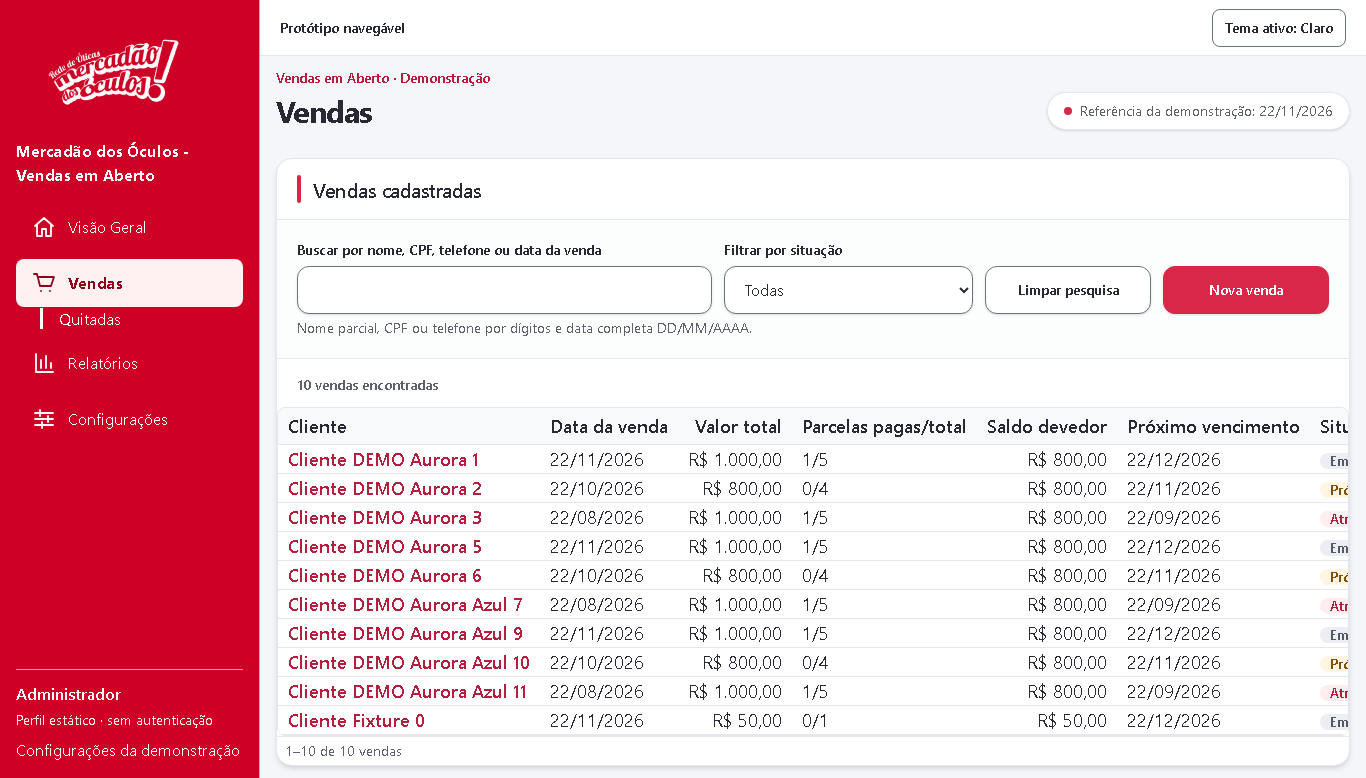
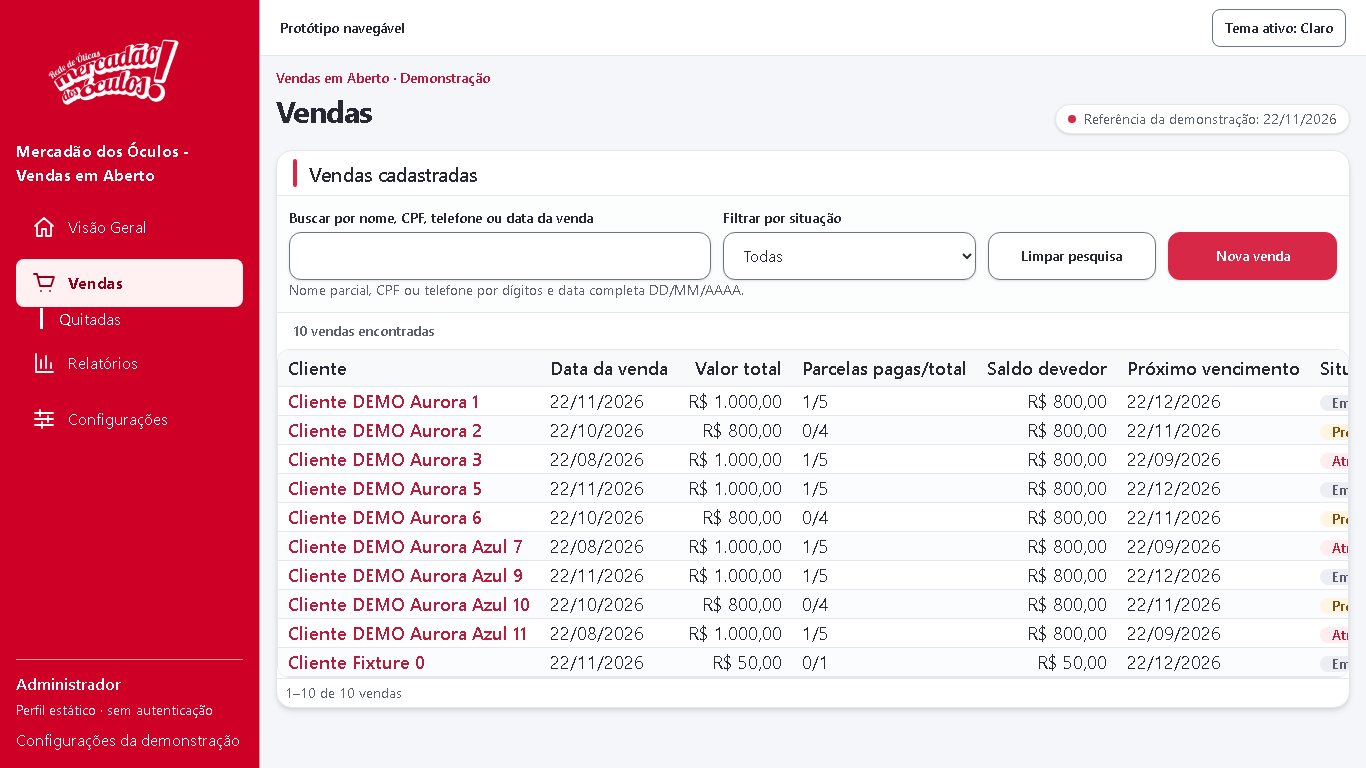
feat: refinar tabela e paginação da listagem

diff --git a/frontend/src/app/funcionalidades/vendas/listar-vendas/listar-vendas.html b/frontend/src/app/funcionalidades/vendas/listar-vendas/listar-vendas.html
@@ -1,26 +1,26 @@
-<div class="mb-5 flex flex-wrap items-end justify-between gap-x-6 gap-y-2">
+<div class="mb-3 flex flex-wrap items-end justify-between gap-x-6 gap-y-2">
   <app-cabecalho titulo="Vendas" [compacto]="false" />
   <p
-    class="mb-2 inline-flex items-center gap-2 rounded-full border border-border bg-surface px-4 py-2 text-sm text-text-muted shadow-sm"
+    class="mb-1 inline-flex items-center gap-2 rounded-full border border-border bg-surface px-3 py-1 text-sm text-text-muted shadow-sm"
   >
     <span class="h-2 w-2 rounded-full bg-action" aria-hidden="true"></span>
     Referência da demonstração: {{ formatarDataCivil(referencia) }}
   </p>
 </div>
 <div class="overflow-hidden rounded-2xl border border-border bg-surface shadow-md">
-  <header class="flex items-center gap-3 border-b border-border px-5 py-4">
+  <header class="flex items-center gap-3 border-b border-border px-4 py-2">
     <span class="h-7 w-1 rounded-full bg-action" aria-hidden="true"></span>
     <h2 class="mb-0 text-xl font-semibold tracking-tight">Vendas cadastradas</h2>
   </header>
   <section
-    class="border-b border-border bg-surface-muted/40 p-4 sm:p-5"
+    class="border-b border-border bg-surface-muted/40 p-3"
     aria-label="Pesquisa e filtros de vendas"
   >
     <div
       class="grid grid-cols-1 items-end gap-3 lg:grid-cols-[minmax(0,2.5fr)_minmax(0,1.5fr)_minmax(9rem,1fr)_minmax(9rem,1fr)] consulta-controles"
     >
       <div class="min-w-0">
-        <label for="busca-vendas" class="mb-1.5 block text-sm font-semibold"
+        <label for="busca-vendas" class="mb-1 block text-sm font-semibold"
           >Buscar por nome, CPF, telefone ou data da venda</label
         >
         <input
@@ -34,7 +34,7 @@
         />
       </div>
       <div class="min-w-0">
-        <label for="situacao-vendas" class="mb-1.5 block text-sm font-semibold"
+        <label for="situacao-vendas" class="mb-1 block text-sm font-semibold"
           >Filtrar por situação</label
         >
         <select
@@ -65,12 +65,12 @@
         >Nova venda</a
       >
     </div>
-    <p id="orientacao-busca-vendas" class="mb-0 mt-1 text-sm text-text-muted">
+    <p id="orientacao-busca-vendas" class="mb-0 mt-0 text-sm text-text-muted">
       Nome parcial, CPF ou telefone por dígitos e data completa DD/MM/AAAA.
     </p>
   </section>
   <p
-    class="mb-3 mt-4 px-5 text-sm font-medium text-text-muted"
+    class="mb-2 mt-2 px-4 text-sm font-medium text-text-muted"
     role="status"
     aria-live="polite"
     aria-atomic="true"
@@ -87,13 +87,14 @@
       Nenhuma venda corresponde à pesquisa e à situação selecionadas.
     </p>
   } @else {
-    <app-tabela-vendas [vendas]="vendasPagina()" legenda="Vendas em aberto" />
+    <app-tabela-vendas [vendas]="vendasPagina()" legenda="Vendas em aberto" [visualPiloto]="true" />
   }
   <app-paginacao-vendas
     class="block border-t border-border px-2 py-1"
     [faixa]="faixaResultados()"
     [paginaAtual]="paginaSelecionada()"
     [totalPaginas]="totalPaginas()"
+    [visualPiloto]="true"
     (paginaAlterada)="selecionarPagina($event)"
   />
 </div>

diff --git a/frontend/e2e/paginacao-fixture.spec.ts b/frontend/e2e/paginacao-fixture.spec.ts
@@ -481,8 +481,54 @@ test('hierarquia de Vendas apresenta cabeçalho e critérios com controles desta
     for (const controle of await controles.all())
       await expect(controle).toHaveCSS('height', '48px');
     await expect(page.locator('app-tabela-vendas tbody tr')).toHaveCount(10);
+    const tabela = page.getByRole('table', { name: 'Vendas em aberto' });
+    await expect(tabela.locator('thead th')).toHaveCount(8);
+    await expect(tabela).toHaveCSS('font-size', '18px');
+    await expect(tabela.locator('tbody td').first()).toHaveCSS('padding-top', '4px');
+    await expect(page.locator('app-selo-situacao span').first()).toHaveCSS('padding-top', '0px');
     await page.screenshot({
       path: testInfo.outputPath(`piloto-hierarquia-vendas-${tema}.png`),
+      fullPage: true,
+    });
+  }
+});
+
+test('paginação de Vendas aplica o acabamento contextual somente no piloto', async ({ page }) => {
+  await page.goto('/vendas?quantidade=80');
+  const navegacao = page.getByRole('navigation', { name: 'Paginação de vendas' });
+  await expect(navegacao).toBeVisible();
+  await expect(navegacao.getByRole('button', { name: 'Página 1' })).toHaveClass(/rounded-xl/);
+  await expect(navegacao.locator('[aria-current="page"]')).toHaveCSS(
+    'background-color',
+    'rgb(215, 40, 72)',
+  );
+});
+
+test('Quitadas conserva acabamento compartilhado anterior ao piloto', async ({
+  page,
+}, testInfo) => {
+  for (const tema of ['dark', 'light']) {
+    await page.goto('/vendas?quantidade=0');
+    if (tema === 'light') await page.getByRole('button', { name: 'Tema escuro' }).click();
+    await page.getByRole('link', { name: 'Quitadas', exact: true }).first().click();
+    const tabela = page.getByRole('table', { name: 'Vendas quitadas' });
+    await expect(tabela).toBeVisible();
+    await expect(tabela.locator('thead th')).toHaveCount(8);
+    await expect(tabela).toHaveCSS('font-size', '18px');
+    await expect(tabela.locator('tbody tr').first().locator('td').first()).toHaveCSS(
+      'padding-top',
+      '4px',
+    );
+    await expect(page.locator('app-tabela-vendas > div')).toHaveCSS('border-radius', '8px');
+    await expect(page.locator('app-selo-situacao span').first()).toHaveCSS('padding-top', '0px');
+    await expect(page.locator('app-selo-situacao span').first()).toHaveCSS('padding-left', '10px');
+    const navegacao = page.getByRole('navigation', { name: 'Paginação de vendas' });
+    if (await navegacao.count())
+      await expect(navegacao.getByRole('button', { name: 'Página 1' })).not.toHaveClass(
+        /rounded-xl/,
+      );
+    await page.screenshot({
+      path: testInfo.outputPath(`quitadas-sem-variante-${tema}.png`),
       fullPage: true,
     });
   }

diff --git a/frontend/src/app/funcionalidades/vendas/componentes/paginacao-vendas/paginacao-vendas.html b/frontend/src/app/funcionalidades/vendas/componentes/paginacao-vendas/paginacao-vendas.html
@@ -19,6 +19,8 @@
           <button
             type="button"
             class="min-w-10 rounded-lg border-[1px] border-control-border bg-surface px-3 py-2 text-sm text-text transition-none hover:bg-surface-muted focus-visible:outline-3 focus-visible:outline-focus focus-visible:outline-offset-2 aria-disabled:cursor-not-allowed aria-disabled:text-text-muted"
+            [class.rounded-xl]="visualPiloto()"
+            [class.shadow-sm]="visualPiloto()"
             aria-label="Página anterior"
             [attr.aria-disabled]="paginaAtual() === 1"
             (click)="mover(-1)"
@@ -34,6 +36,9 @@
               <button
                 type="button"
                 class="min-w-10 rounded-lg border-[1px] border-control-border px-3 py-2 text-sm text-text transition-none hover:bg-surface-muted aria-[current=page]:hover:bg-action-hover focus-visible:outline-3 focus-visible:outline-focus focus-visible:outline-offset-2"
+                [class.rounded-xl]="visualPiloto()"
+                [class.shadow-sm]="visualPiloto()"
+                [class.border-action]="visualPiloto() && item === paginaAtual()"
                 [class.bg-action]="item === paginaAtual()"
                 [class.text-white]="item === paginaAtual()"
                 [class.font-semibold]="item === paginaAtual()"
@@ -51,6 +56,8 @@
           <button
             type="button"
             class="min-w-10 rounded-lg border-[1px] border-control-border bg-surface px-3 py-2 text-sm text-text transition-none hover:bg-surface-muted focus-visible:outline-3 focus-visible:outline-focus focus-visible:outline-offset-2 aria-disabled:cursor-not-allowed aria-disabled:text-text-muted"
+            [class.rounded-xl]="visualPiloto()"
+            [class.shadow-sm]="visualPiloto()"
             aria-label="Próxima página"
             [attr.aria-disabled]="paginaAtual() === totalPaginas()"
             (click)="mover(1)"

diff --git a/frontend/src/app/compartilhado/componentes/selo-situacao/selo-situacao.ts b/frontend/src/app/compartilhado/componentes/selo-situacao/selo-situacao.ts
@@ -11,19 +11,20 @@ type Situacao = SituacaoVenda | SituacaoParcela;
 })
 export class SeloSituacao {
   readonly situacao = input.required<Situacao>();
+  readonly visualPiloto = input(false);
 
   protected classe(): string {
     switch (this.situacao()) {
       case 'Quitada':
       case 'Paga':
-        return 'inline-flex w-fit items-center whitespace-nowrap rounded-full bg-success-badge px-2.5 py-0 text-sm leading-4 font-semibold text-success-badge-text';
+        return `inline-flex w-fit items-center whitespace-nowrap rounded-full ${this.visualPiloto() ? 'px-3 py-0' : 'px-2.5 py-0'} text-sm leading-4 font-semibold bg-success-badge text-success-badge-text`;
       case 'Atrasada':
       case 'Atrasado':
-        return 'inline-flex w-fit items-center whitespace-nowrap rounded-full bg-danger-badge px-2.5 py-0 text-sm leading-4 font-semibold text-danger-badge-text';
+        return `inline-flex w-fit items-center whitespace-nowrap rounded-full ${this.visualPiloto() ? 'px-3 py-0' : 'px-2.5 py-0'} text-sm leading-4 font-semibold bg-danger-badge text-danger-badge-text`;
       case 'Próximos dias':
-        return 'inline-flex w-fit items-center whitespace-nowrap rounded-full bg-warning-badge px-2.5 py-0 text-sm leading-4 font-semibold text-warning-badge-text';
+        return `inline-flex w-fit items-center whitespace-nowrap rounded-full ${this.visualPiloto() ? 'px-3 py-0' : 'px-2.5 py-0'} text-sm leading-4 font-semibold bg-warning-badge text-warning-badge-text`;
       default:
-        return 'inline-flex w-fit items-center whitespace-nowrap rounded-full bg-neutral-badge px-2.5 py-0 text-sm leading-4 font-semibold text-neutral-badge-text';
+        return `inline-flex w-fit items-center whitespace-nowrap rounded-full ${this.visualPiloto() ? 'px-3 py-0' : 'px-2.5 py-0'} text-sm leading-4 font-semibold bg-neutral-badge text-neutral-badge-text`;
     }
   }
 }

diff --git a/frontend/src/app/funcionalidades/vendas/componentes/tabela-vendas/tabela-vendas.html b/frontend/src/app/funcionalidades/vendas/componentes/tabela-vendas/tabela-vendas.html
@@ -1,5 +1,7 @@
 <div
-  class="max-w-full overflow-x-auto rounded-lg border border-border"
+  class="max-w-full overflow-x-auto border border-border"
+  [class.rounded-lg]="!visualPiloto()"
+  [class.rounded-xl]="visualPiloto()"
   role="region"
   [attr.aria-label]="legenda()"
   tabindex="0"
@@ -48,7 +50,11 @@
     </thead>
     <tbody>
       @for (venda of vendas(); track venda.id) {
-        <tr class="hover:bg-surface-muted focus-within:bg-surface-muted">
+        <tr
+          class="hover:bg-surface-muted focus-within:bg-surface-muted"
+          [class.transition-colors]="visualPiloto()"
+          [class.even:bg-surface-muted/50]="visualPiloto()"
+        >
           <th scope="row" class="whitespace-nowrap border-b border-border px-2.5 py-1 font-medium">
             <a
               [routerLink]="['/vendas', venda.id]"
@@ -78,7 +84,7 @@
             }}
           </td>
           <td class="whitespace-nowrap border-b border-border px-2.5 py-1">
-            <app-selo-situacao [situacao]="venda.situacao" />
+            <app-selo-situacao [situacao]="venda.situacao" [visualPiloto]="visualPiloto()" />
           </td>
           <td class="whitespace-nowrap border-b border-border px-2.5 py-1">
             <a

diff --git a/frontend/src/app/funcionalidades/vendas/componentes/paginacao-vendas/paginacao-vendas.ts b/frontend/src/app/funcionalidades/vendas/componentes/paginacao-vendas/paginacao-vendas.ts
@@ -10,6 +10,7 @@ export class PaginacaoVendas {
   readonly faixa = input.required<FaixaPaginacao>();
   readonly paginaAtual = input.required<number>();
   readonly totalPaginas = input.required<number>();
+  readonly visualPiloto = input(false);
   readonly paginaAlterada = output<number>();
   protected readonly itens = computed(() =>
     obterItensNavegacao(this.totalPaginas(), this.paginaAtual()),

diff --git a/frontend/src/app/funcionalidades/vendas/componentes/tabela-vendas/tabela-vendas.ts b/frontend/src/app/funcionalidades/vendas/componentes/tabela-vendas/tabela-vendas.ts
@@ -15,6 +15,7 @@ export class TabelaVendas {
   readonly vendas = input.required<readonly ProjecaoVenda[]>();
   readonly legenda = input.required<string>();
   readonly origem = input<'abertas' | 'quitadas'>('abertas');
+  readonly visualPiloto = input(false);
   protected readonly formatarDataCivil = formatarDataCivil;
   protected readonly formatarDinheiro = formatarDinheiro;
 }

diff --git a/frontend/README.md b/frontend/README.md
@@ -55,7 +55,9 @@ fica alinhada ao título como informação auxiliar. A faixa única de critério
 fundo contextual, mais respiro e controles de 48 px com superfície/contorno
 consistentes; busca, situação, Limpar pesquisa e Nova venda continuam no mesmo
 grupo, sem busca duplicada ou KPI. O status de resultados ganhou separação visual.
-Não foi alterado componente compartilhado, shell ou listagem Quitadas.
+Shell e template de Quitadas não foram alterados. Componentes de tabela, selo e
+paginação receberam variantes opt-in que permanecem desligadas por padrão; somente
+Vendas abertas solicita esse acabamento.
 
 Capturas sintéticas pós-2.1 (1366×768 e 390×844, claro/escuro) estão em
 `evidencias/piloto-fidelidade-visual-vendas/hierarquia/`; comparação direta com a
@@ -63,13 +65,40 @@ baseline usa os arquivos correspondentes de
 `evidencias/piloto-fidelidade-visual-vendas/baseline/`. O E2E direcionado
 `npm.cmd run test:e2e:paginacao-fixture -- --grep "hierarquia de Vendas apresenta"`
 passou 2/2 projetos; o teste inclui título, faixa única, alinhamento desktop,
-controles, registros sintéticos e capturas. A suíte unitária passou com 31 arquivos
-e 373 testes. A tentativa de executar o E2E `consulta listas, combina critérios`
-com seu servidor próprio não iniciou porque `127.0.0.1:4200` já estava ocupado.
-No navegador já disponível nesse endereço, busca textual, combinação com situação,
-Limpar pesquisa (mantendo o filtro) e CTA Nova venda foram exercitados manualmente;
-o CTA abriu `/vendas/nova`. Reexecutar a automação de consulta quando a porta estiver
-livre.
+controles, registros sintéticos e capturas. A automação `consulta listas, combina
+critérios` passou **2/2** em servidor isolado na porta 4310 após detectar a porta
+4200 ocupada; verificou busca, combinação com situação, Limpar pesquisa preservando
+o filtro e CTA Nova venda.
+
+### 2.2 — tabela, situações, estados e rodapé contextual
+
+O acabamento opt-in da tabela mantém as oito colunas, fonte de **18 px**, line-height
+de **20 px**, paddings das células (4 px vertical/10 px horizontal) e ações textuais.
+Em Vendas abertas, o contorno da região fica mais arredondado, linhas alternadas
+recebem superfície suave e hover/foco passam a transicionar sem alterar o conteúdo.
+Selos mantêm os paddings verticais originais e ampliam somente o respiro horizontal;
+a paginação usa contornos arredondados, sombra discreta e borda de destaque na página
+ativa. A composição funciona com os tokens light/dark existentes e sem gradientes
+novos. As variantes padrão continuam inalteradas em Quitadas.
+
+Após 2.2, em 1366×768 e ambos os temas: décima linha até **676 px**, rodapé até
+**720,5 px**, documento permanece **1366×768**, controles desktop alinhados, fonte/
+line-height **18/20 px**, padding celular **4/10 px**. Em 390×844, documento **390×1581**,
+largura global **390 px** e tabela rola apenas dentro da região; décima linha e
+paginação estão disponíveis no documento rolável. Capturas atualizadas da mesma
+fixture sintética de dez vendas (pós-2.2) substituem os quatro PNGs em
+`evidencias/piloto-fidelidade-visual-vendas/hierarquia/`; a baseline de dez vendas
+permanece em sua pasta homônima. O quadro visual lado a lado e o controle de Quitadas
+estão em `evidencias/piloto-fidelidade-visual-vendas/comparacao.md`. A fixture
+completa passou **24/24**, incluindo
+coleções 0/1/10/11/21, contraste, foco, teclado e viewports. A suíte unitária passou
+**373/373** e o build passou. Quitadas foi capturada após a mudança nos dois
+temas/viewports em `evidencias/piloto-fidelidade-visual-vendas/quitadas-verificacao/`;
+verificações de oito colunas, fonte, paddings, raio da tabela, badge e paginação
+confirmam que a variante compartilhada permanece desligada nessa página.
+Contraste medido de texto de paginação: mínimo **4,89:1** no estado ativo; contornos
+e foco excederam os limites automatizados de **3:1**. As outras áreas de UI não foram
+mudadas por esta etapa.
 
 ## Apply `novo-design` — verificação integrada — 22/11/2026
 

diff --git a/openspec/changes/piloto-fidelidade-visual-vendas/tasks.md b/openspec/changes/piloto-fidelidade-visual-vendas/tasks.md
@@ -8,8 +8,8 @@
 ## 2. Composição do piloto de Vendas
 
 - [x] 2.1 Redesenhar a hierarquia do cabeçalho, título textual e faixa única de critérios em `listar-vendas.html` sem duplicar a busca ou mover a ação fora da faixa; verificar com testes de componente e E2E busca/filtro/Limpar pesquisa/CTA e captura antes/depois da página clara e escura. E2E visual direcionado 2/2 e unitários 31 arquivos/373 testes passaram; fluxos de consulta foram exercitados manualmente no servidor já ativo. A execução E2E dedicada de consulta ficou pendente porque a porta 4200 estava ocupada; registrada no README para reexecução.
-- [ ] 2.2 Dar à tabela, situações, estados e rodapé de Vendas acabamento contextual coerente com o PNG, preservando oito colunas, links textuais, fonte 18 px, paddings e componentes compartilhados; verificar E2E de resultados/ausências, contraste/foco/teclado e comparação de capturas/estilos de Quitadas antes/depois sem mudança visual indevida.
-- [ ] 2.3 Registrar em `frontend/README.md` as diferenças efetivamente implementadas, adaptação para o tema escuro e desvios intencionais (sem busca global/KPIs/filtro de data/reticências), com capturas sintéticas lado a lado verificáveis.
+- [x] 2.2 Dar à tabela, situações, estados e rodapé de Vendas acabamento contextual coerente com o PNG, preservando oito colunas, links textuais, fonte 18 px, paddings e componentes compartilhados; verificar E2E de resultados/ausências, contraste/foco/teclado e comparação de capturas/estilos de Quitadas antes/depois sem mudança visual indevida. Variantes opt-in desligadas em Quitadas; consulta automatizada passou 2/2, fixture completa 24/24. Medições desktop/mobile, contraste, foco/teclado e comparação visual estão no README e em `frontend/evidencias/piloto-fidelidade-visual-vendas/`.
+- [x] 2.3 Registrar em `frontend/README.md` as diferenças efetivamente implementadas, adaptação para o tema escuro e desvios intencionais (sem busca global/KPIs/filtro de data/reticências), com capturas sintéticas lado a lado verificáveis. Comparação versionada em `frontend/evidencias/piloto-fidelidade-visual-vendas/comparacao.md`.
 
 ## 3. Verificação e apresentação do piloto
 

diff --git a/frontend/evidencias/piloto-fidelidade-visual-vendas/comparacao.md b/frontend/evidencias/piloto-fidelidade-visual-vendas/comparacao.md
@@ -1,0 +1,49 @@
+# Comparação visual do piloto — capturas sintéticas
+
+As capturas de Vendas usam a mesma fixture de dez vendas. Cada par mostra a
+baseline à esquerda e a hierarquia final à direita, no mesmo viewport e tema.
+
+## Vendas abertas
+
+### 1366×768 · claro
+
+| Antes | Depois |
+| --- | --- |
+| ![Baseline Vendas desktop clara](baseline/vendas-1366x768-light.png) | ![Piloto Vendas desktop claro](hierarquia/vendas-1366x768-light.png) |
+
+### 1366×768 · escuro
+
+| Antes | Depois |
+| --- | --- |
+| ![Baseline Vendas desktop escura](baseline/vendas-1366x768-dark.png) | ![Piloto Vendas desktop escuro](hierarquia/vendas-1366x768-dark.png) |
+
+### 390×844 · claro
+
+| Antes | Depois |
+| --- | --- |
+| ![Baseline Vendas mobile clara](baseline/vendas-390x844-light.png) | ![Piloto Vendas mobile claro](hierarquia/vendas-390x844-light.png) |
+
+### 390×844 · escuro
+
+| Antes | Depois |
+| --- | --- |
+| ![Baseline Vendas mobile escura](baseline/vendas-390x844-dark.png) | ![Piloto Vendas mobile escuro](hierarquia/vendas-390x844-dark.png) |
+
+## Quitadas · controle de não regressão
+
+Quitadas não recebeu a variante visual do piloto. Os PNGs abaixo foram capturados
+depois da implementação para conferir as combinações de tema e viewport; a
+equivalência de estilos foi verificada em E2E contra os valores anteriores da
+variante compartilhada.
+
+| Viewport/tema | Captura posterior |
+| --- | --- |
+| 1366×768 · claro | ![Quitadas desktop clara](quitadas-verificacao/quitadas-1366x768-light.png) |
+| 1366×768 · escuro | ![Quitadas desktop escura](quitadas-verificacao/quitadas-1366x768-dark.png) |
+| 390×844 · claro | ![Quitadas mobile clara](quitadas-verificacao/quitadas-390x844-light.png) |
+| 390×844 · escuro | ![Quitadas mobile escura](quitadas-verificacao/quitadas-390x844-dark.png) |
+
+Referência estética principal: [mockup Mercadão](../../../references/a_clean_modern_dashboard_ui_using_the_mercadão_do.png).
+Os cards de KPI, busca global, filtro por data e ações ilustrativas do mockup foram
+intencionalmente omitidos; ver `frontend/README.md` e o delta OpenSpec para os
+contratos preservados.
